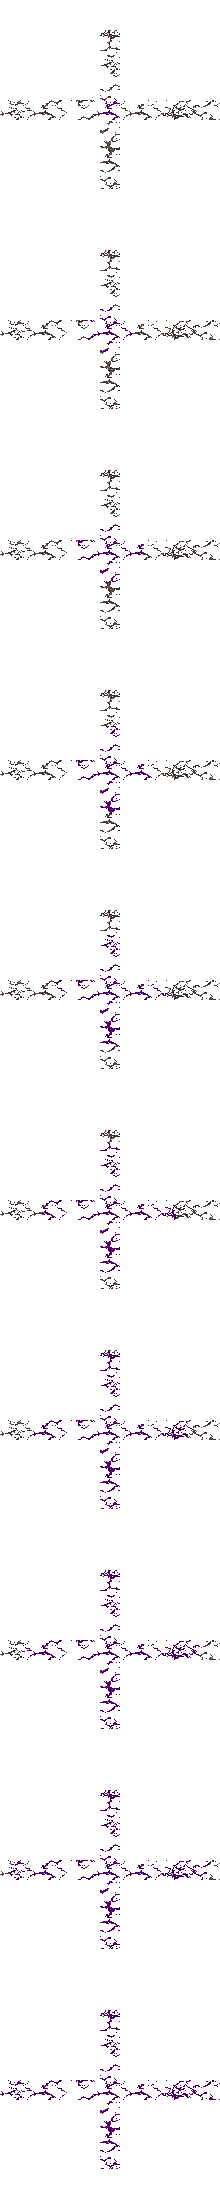
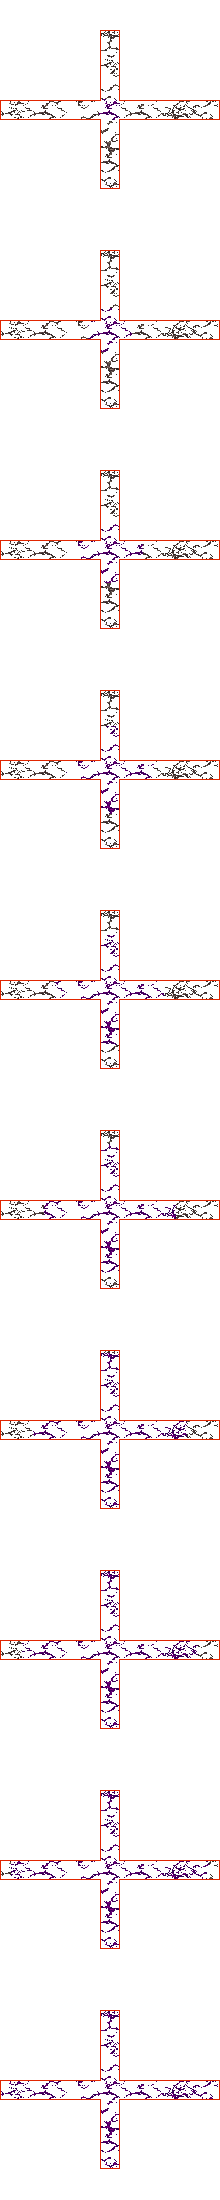
Fixed cross explosions display

diff --git a/Project/Motor2D/M_Explosion.cpp b/Project/Motor2D/M_Explosion.cpp
@@ -161,14 +161,14 @@ bool M_Explosion::Awake(pugi::xml_node&)
 	crossSystem.PushExplosion(0.0f, { 0, 0 }, 200, 0, 1, 4.0f, PLAYER, false, EXPLOSION_NONE, 0.0f, false, E_LOAD_CROSS1);
 	for (int n = -4; n <= 4; n++)
 	{
-		crossSystem.PushExplosion(0.0f, { 45 * n, 0 }, 20, 80, 1, 4.0f, PLAYER, true, EXPLOSION_ACID);
-		crossSystem.PushExplosion(0.0f, { 0, 35 * n }, 20, 80, 1, 4.0f, PLAYER, true, EXPLOSION_ACID);
+		crossSystem.PushExplosion(0.0f, { 45 * n, 0 }, 20, 80, 1, 4.0f, PLAYER, false, EXPLOSION_ACID);
+		crossSystem.PushExplosion(0.0f, { 0, 35 * n }, 20, 80, 1, 4.0f, PLAYER, false, EXPLOSION_ACID);
 	}
 	crossSystem.PushExplosion(4.0f, { 0, 0 }, 200, 0, 1, 4.0f, PLAYER, false, EXPLOSION_NONE, 0.0f, false, E_LOAD_CROSS2);
 	for (int n = -4; n <= 4; n++)
 	{
-		crossSystem.PushExplosion(4.0f, { 37 * n, 27 * n }, 20, 80, 1, 4.0f, PLAYER, true, EXPLOSION_ACID);
-		crossSystem.PushExplosion(4.0f, { 37 * n, -27 * n }, 20, 80, 1, 4.0f, PLAYER, true, EXPLOSION_ACID);
+		crossSystem.PushExplosion(4.0f, { 37 * n, 27 * n }, 20, 80, 1, 4.0f, PLAYER, false, EXPLOSION_ACID);
+		crossSystem.PushExplosion(4.0f, { 37 * n, -27 * n }, 20, 80, 1, 4.0f, PLAYER, false, EXPLOSION_ACID);
 	}
 	crossSystem.duration = 8.0f;
 
